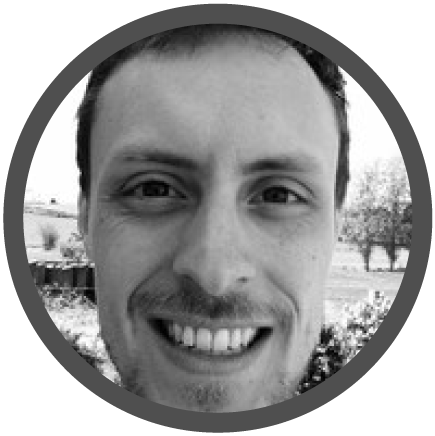
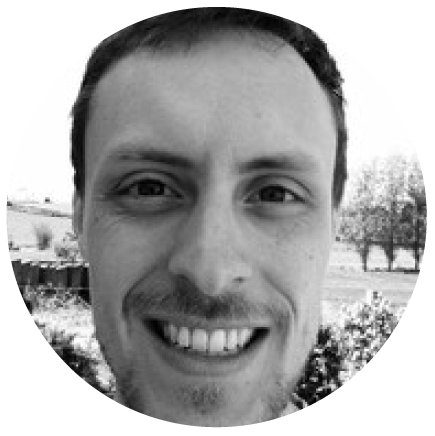
Update photos and Phil Bouchet's details

diff --git a/content/about/committee/index.md b/content/about/committee/index.md
@@ -123,13 +123,28 @@ Liam is a biological modeller with special focus on vegetation distribution mode
 
 Susan is a quantitative ecologist at the Centre for Ecology and Hydrology in Lancaster. She is interested in understanding the processes behind species distributions, diversity and community composition and uses a range of methods including species distribution models and multivariate statistics. She is particularly interested in methods to combine multiple datasets (e.g. professional surveys and citizen science) to answer ecological questions. Susan’s background is in fungal ecology but she currently works with a broad range of study organisms from plants to bees.
 
-
-**Phil Bouchet** (Website Coordinator)<br>
-<span class="member_affiliation">University of St Andrews</span>
+<table>
+  <tr>
+    <td class="leftcol"><img src="https://bes-qsig.github.io/img/PhilBouchet.png"/></td>
+    <td class="rightcol"><table>
+      <b>Phil Bouchet (Website Coordinator)</b><br>
+      <span class="member_affiliation">University of St Andrews</span></table>
+      <table>
+        <ul>
+          <li class="member_web"><i class="fab fa-twitter"> </i> <a href="https://twitter.com/pjbouchet" target="_blank"> Twitter</a></li>
+          <li class="list_separator"> | </li>
+         <li class="member_web"><i class="fab fa-google"></i> <a href="https://scholar.google.com/citations?user=X5SMt_8AAAAJ&hl=en" target="_blank"> Scholar</a></li>
+        <li class="list_separator"> | </li>
+        <li class="member_web"><i class="fab fa-researchgate"></i> <a href="https://www.researchgate.net/profile/Phil_Bouchet" target="_blank"> ResearchGate</a></li>
+          <li class="list_separator"> | </li>
+          <li class="member_web"><i class="fas fa-globe-americas"></i> <a href="https://pjbouchet.github.io/" target="_blank"> Website</a></li>
+        </ul>
+      </table>
+    </td>
+  </tr>
+</table>
 
 Phil is a quantitative marine ecologist with an active interest in the use of GIS and statistical methods to address pressing wildlife conservation problems in the ocean. Phil’s background is in marine mammal science, although his work encompasses a range of other species including sharks, pelagic fishes, turtles and seabirds. Phil’s interests lie in the estimation of animal abundance and distribution, using frequentist and Bayesian methods. He  is currently a Research Associate at the Centre for Research into Ecological & Environmental Modelling (CREEM) at the University of St Andrews, where he focuses on extrapolation in cetacean density models.
-
-<i class="fab fa-twitter"></i> [Twitter](https://twitter.com/pjbouchet) | <i class="fab fa-google"></i> [Google Scholar](https://scholar.google.com/citations?user=X5SMt_8AAAAJ&hl=en) | <i class="fab fa-researchgate"></i> [ResearchGate](https://www.researchgate.net/profile/Phil_Bouchet) | <i class="fas fa-globe-americas"></i> [Website](https://pjbouchet.github.io/)
 
 **Tom August** (Social Media Rep)<br>
 <span class="member_affiliation">Centre for Ecology & Hydrology</span>
